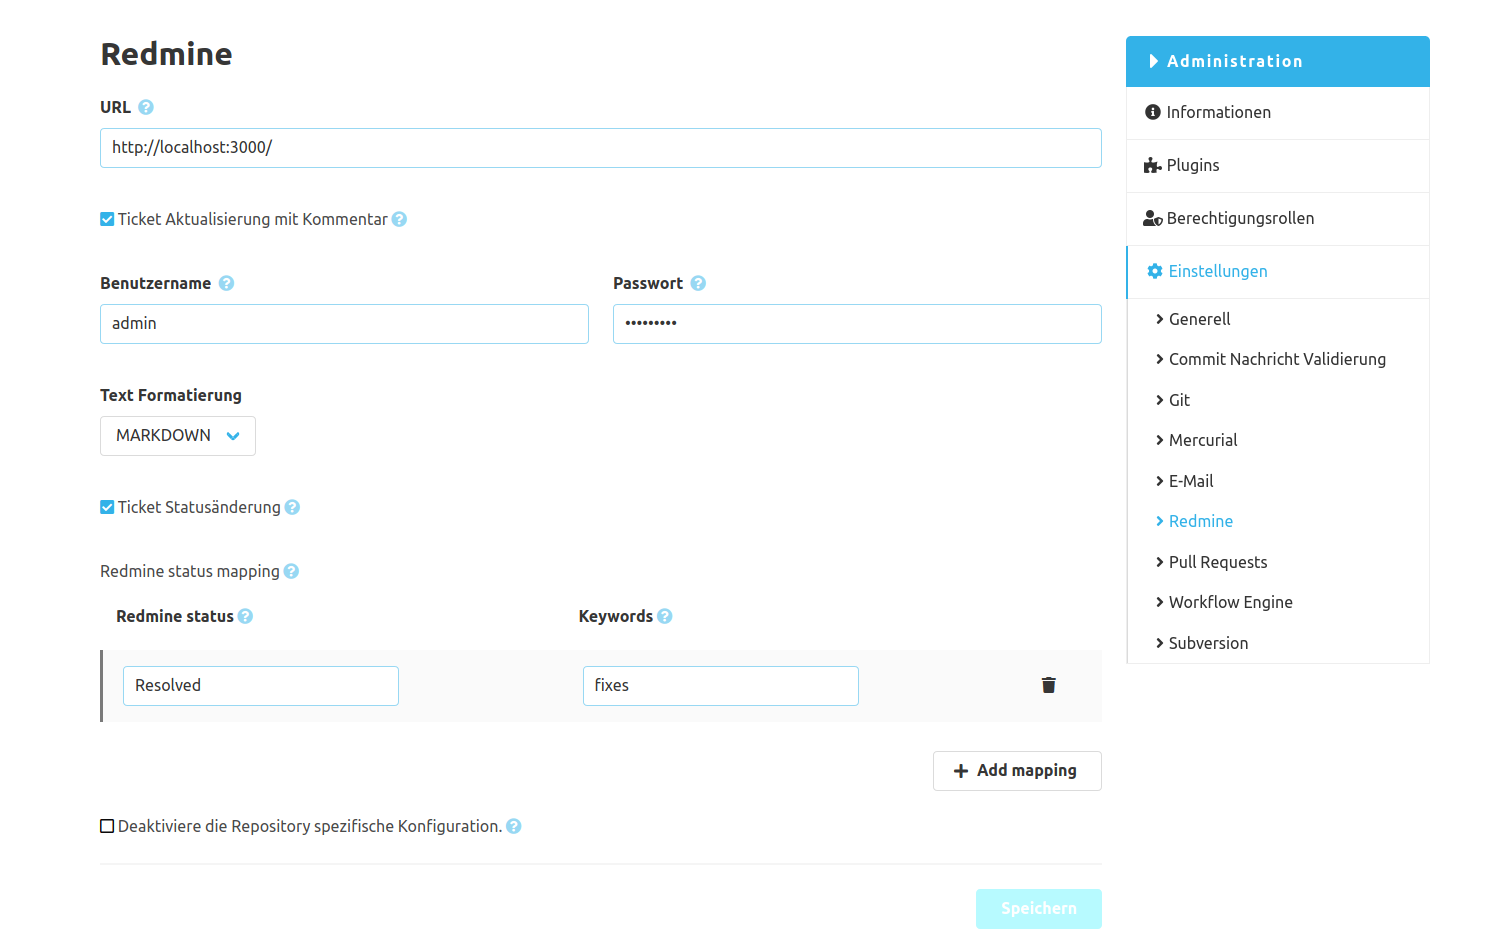
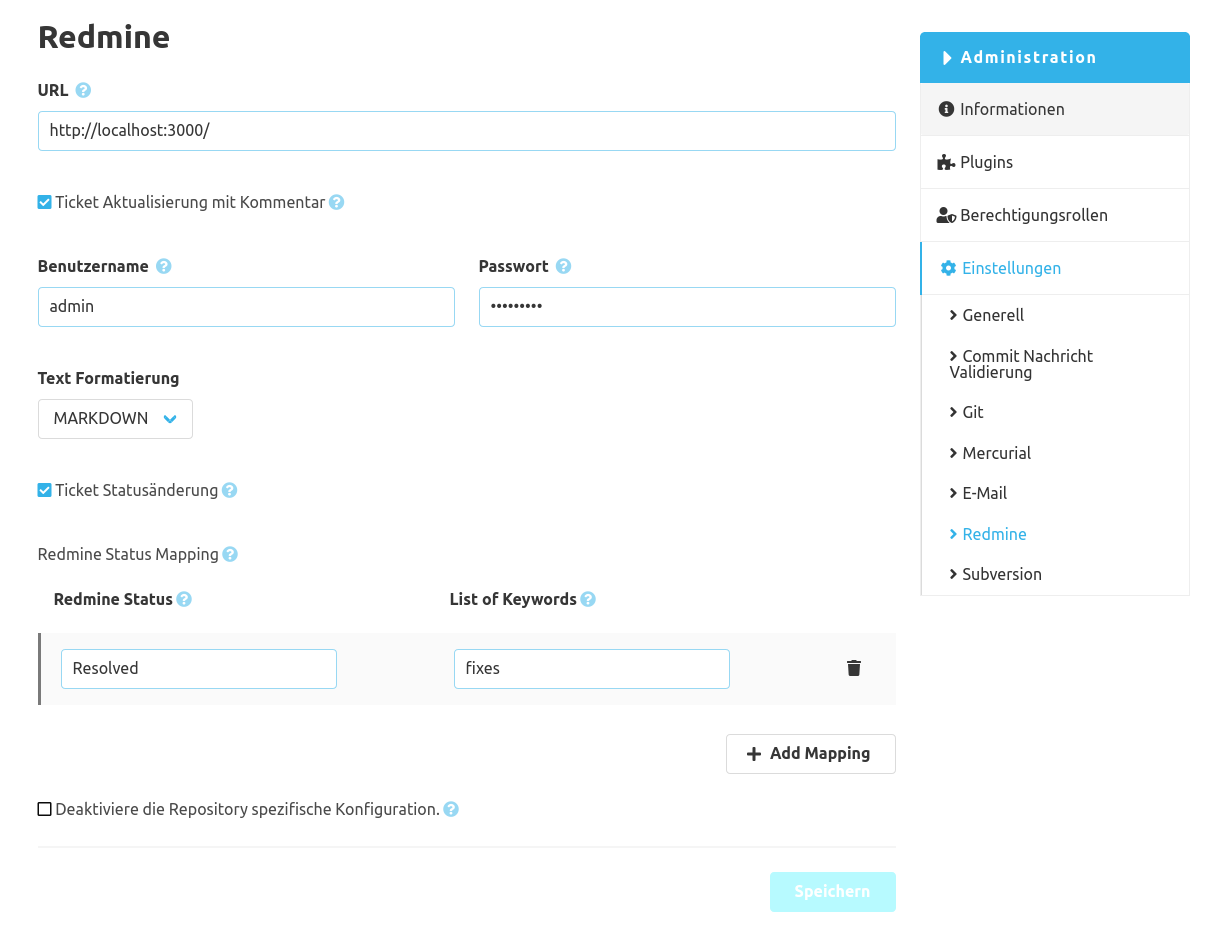
Allow duplicate mapping entries (#29)
Allow duplicate mapping entries, enrich table labeling

diff --git a/src/main/js/KeyWordMapping.tsx b/src/main/js/KeyWordMapping.tsx
@@ -26,9 +26,9 @@ import { useTranslation } from "react-i18next";
 import { InputField, AddButton, Icon, Help, Notification } from "@scm-manager/ui-components";
 import styled from "styled-components";
 
-type Props = {
-  mappings: Record<string, string>;
-  onChange: (mappings: Record<string, string>) => void;
+type Mapping = {
+  status: string;
+  keywords: string;
 };
 
 type MappingProps = {
@@ -74,7 +74,7 @@ const MappingForm: FC<MappingProps> = ({ mapping, remove, update }) => {
           className="is-grouped"
           onChange={onKeywordsChange}
           value={mapping.keywords}
-          placeholder={t("scm-redmine-plugin.config.mapping.keywords")}
+          placeholder={t("scm-redmine-plugin.config.mapping.keywordsPlaceholder")}
         />
       </td>
       <VCenteredTd>
@@ -88,14 +88,14 @@ const MappingForm: FC<MappingProps> = ({ mapping, remove, update }) => {
   );
 };
 
+type Props = {
+  mappings: Record<string, string>;
+  onChange: (mappings: Record<string, string>) => void;
+};
+
 const AddMappingButton = styled(AddButton)`
   float: right;
 `;
-
-type Mapping = {
-  status: string;
-  keywords: string;
-};
 
 const convert = (mappings: Record<string, string>): Mapping[] => {
   return Object.keys(mappings).map(name => ({
@@ -112,7 +112,11 @@ const KeyWordMapping: FC<Props> = props => {
     setMappings(newMappings);
     const record: Record<string, string> = {};
     newMappings.forEach(mapping => {
-      record[mapping.status] = mapping.keywords;
+      if(mapping.status in record) {
+        record[mapping.status] += ",".concat(mapping.keywords);
+      } else {
+        record[mapping.status] = mapping.keywords;
+      }
     });
     props.onChange(record);
   };

diff --git a/CHANGELOG.md b/CHANGELOG.md
@@ -4,6 +4,10 @@ All notable changes to this project will be documented in this file.
 The format is based on [Keep a Changelog](https://keepachangelog.com/en/1.0.0/),
 and this project adheres to [Semantic Versioning](https://semver.org/spec/v2.0.0.html).
 
+## Unreleased
+### Fixed
+- Allow duplicate mapping entries ([#29](https://github.com/scm-manager/scm-redmine-plugin/pull/29))
+
 ## 3.0.0 - 2021-04-07
 ### Added
 - Support pull requests and comments ([#21](https://github.com/scm-manager/scm-redmine-plugin/pull/21))
